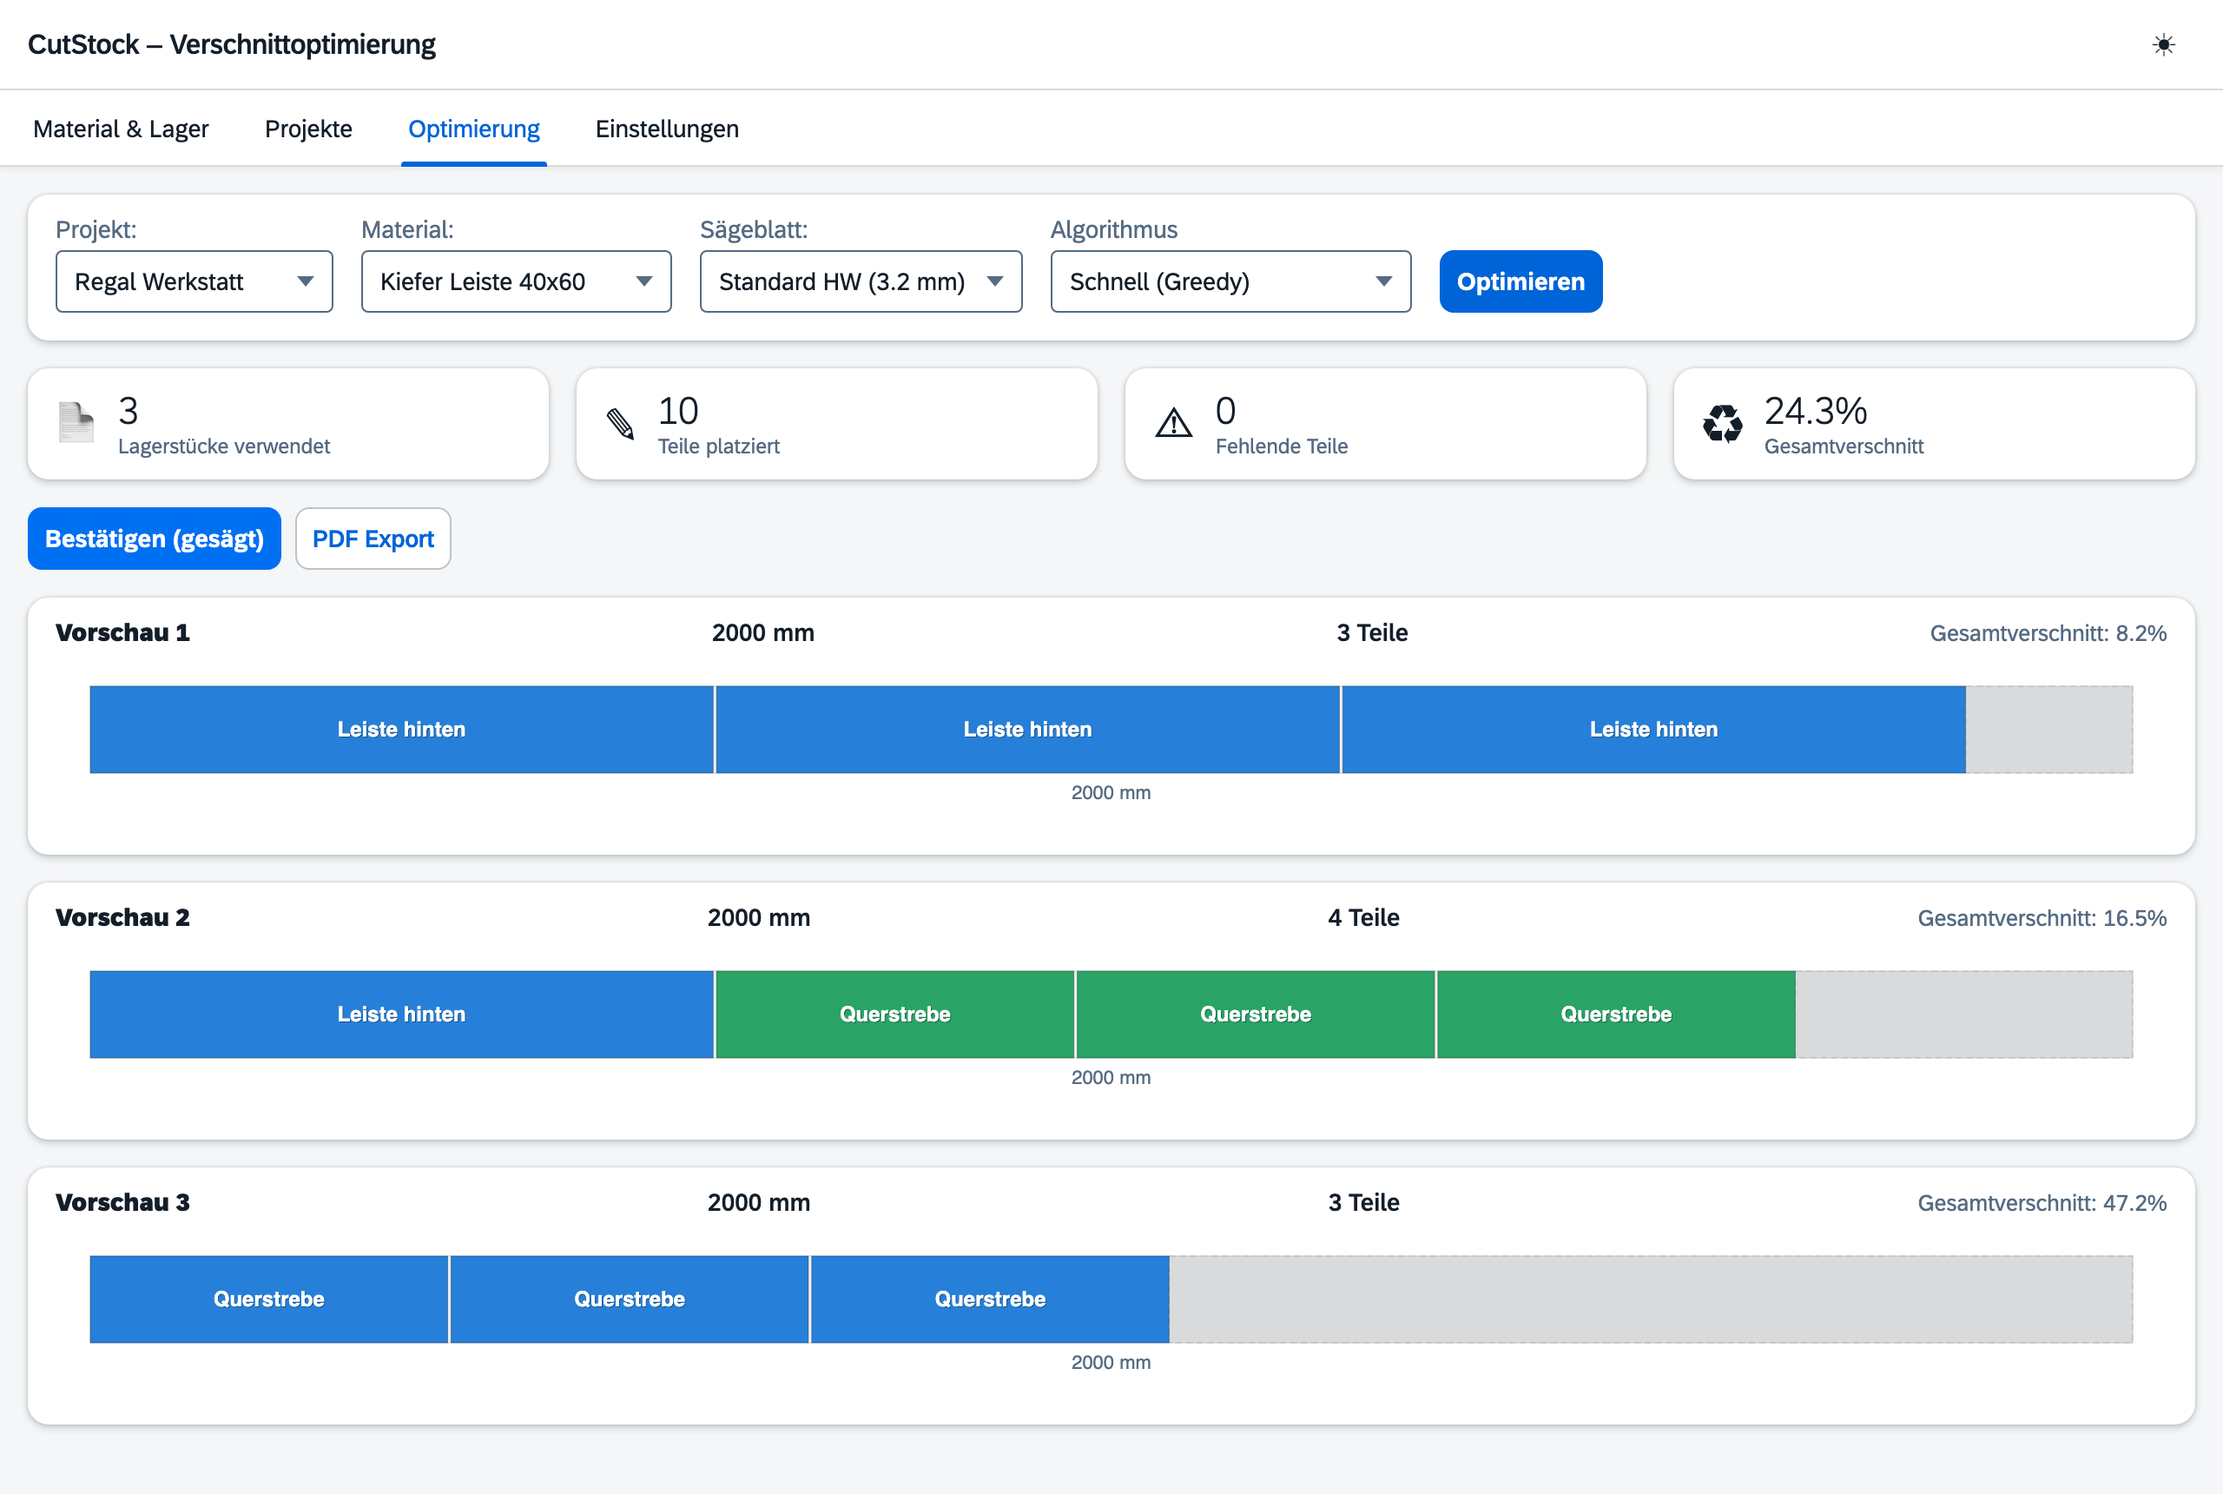
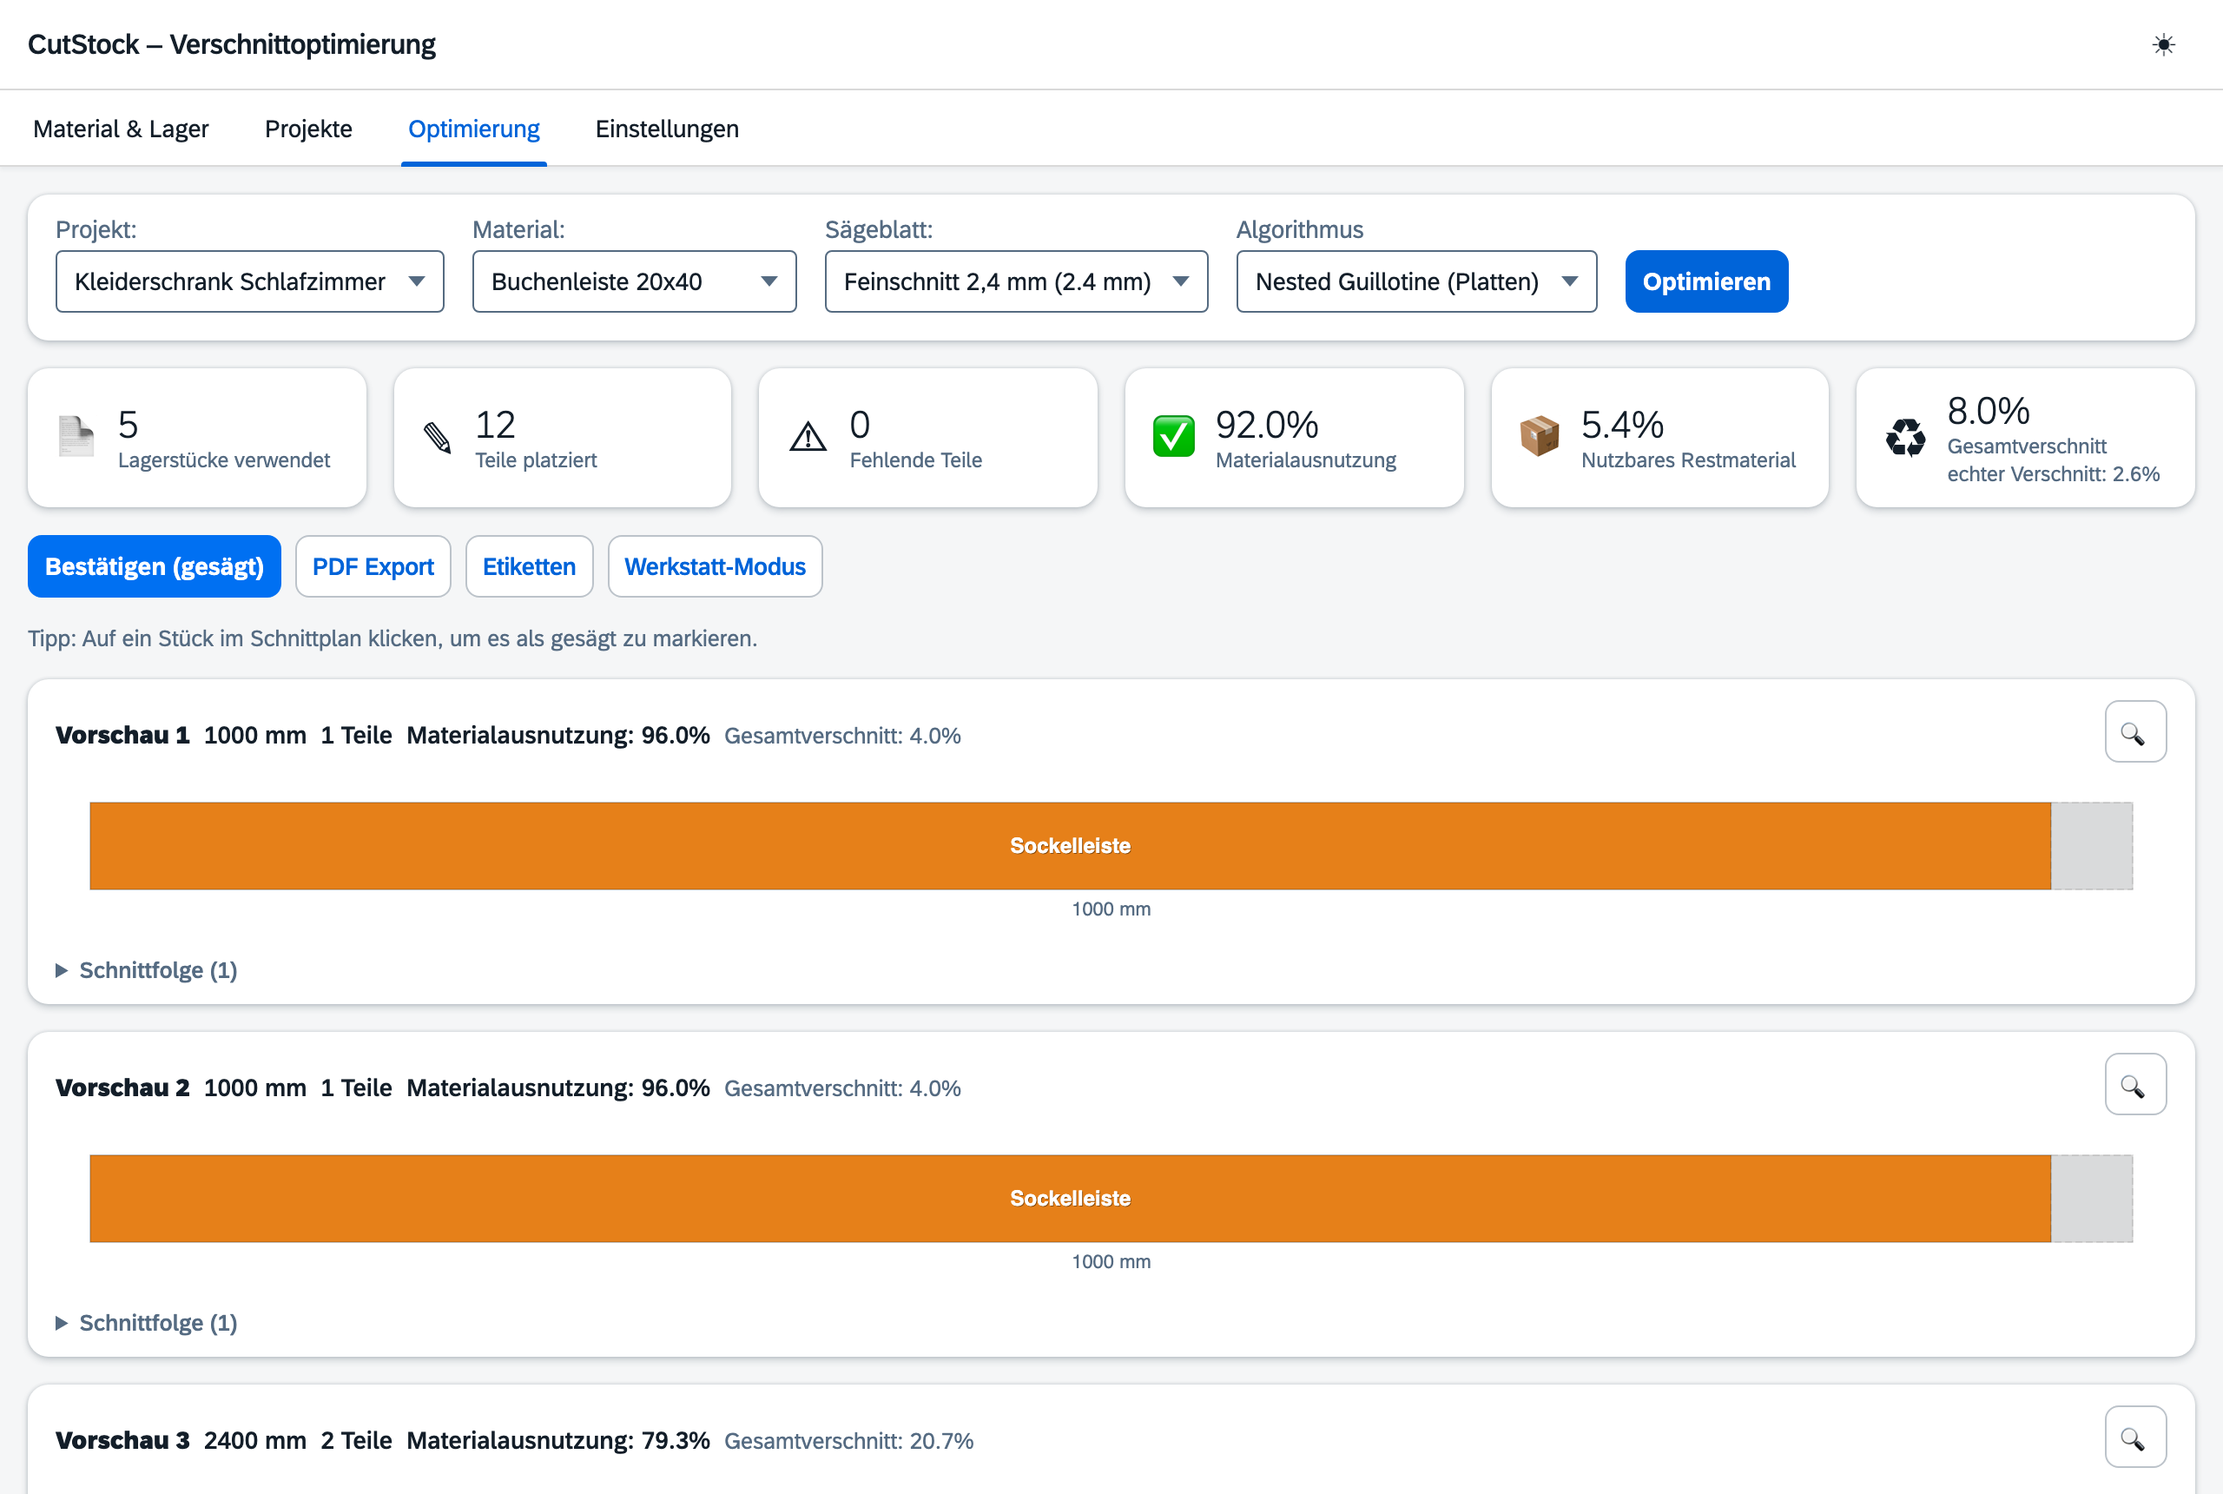
Version 2026.07.20: Doku – neue Screenshots + README-Update
Sechs frische Screenshots (helles Horizon, deutsches UI, Demo-Projekt
'Kleiderschrank Schlafzimmer' mit 13 Teiletypen + Stangen), neu dabei
screenshot_werkstatt.png. Erzeugt mit docs/make_screenshots.py (neu im
Repo: seedet Demo-Daten per REST und schießt die Bilder mit Playwright,
reproduzierbar). READMEs (en/de): Schnittfolge, Werkstatt-Modus,
Etiketten inkl. Druckerformate und CSV-Import ergänzt, Werkstatt-Modus-
Abschnitt mit Screenshot.

diff --git a/docs/make_screenshots.py b/docs/make_screenshots.py
@@ -1,0 +1,192 @@
+"""Generate the documentation screenshots against a local dev server.
+
+Creates a rich demo dataset via the REST API (materials, stock, blades,
+two projects) and then drives the web UI with Playwright to capture the
+screenshots used in README / website (light Horizon theme, German UI).
+
+Usage:
+    # 1) start a dev server with a THROWAWAY database:
+    CUTSTOCK_DB=/tmp/cutstock-shots.db python -m uvicorn web.app:app --port 8010
+    # 2) run this script (needs: pip install playwright && playwright install chromium):
+    python docs/make_screenshots.py http://localhost:8010
+
+Output: docs/screenshot_*.png (viewport 1280px @2x = 2560px wide).
+"""
+
+from __future__ import annotations
+
+import json
+import sys
+import urllib.request
+from pathlib import Path
+
+BASE = sys.argv[1] if len(sys.argv) > 1 else "http://localhost:8010"
+OUT = Path(__file__).resolve().parent
+
+
+# ---------------------------------------------------------------------------
+# REST helpers
+# ---------------------------------------------------------------------------
+
+def api(method: str, path: str, body: dict | None = None) -> dict | list | None:
+    req = urllib.request.Request(BASE + path, method=method)
+    data = None
+    if body is not None:
+        req.add_header("Content-Type", "application/json")
+        data = json.dumps(body).encode()
+    with urllib.request.urlopen(req, data) as resp:
+        raw = resp.read()
+        return json.loads(raw) if raw else None
+
+
+def seed_demo_data() -> dict:
+    """Create the demo dataset; returns ids needed for the UI flow."""
+    if api("GET", "/api/materials"):
+        raise SystemExit("Database is not empty – use a fresh throwaway DB!")
+
+    span = api("POST", "/api/materials", {
+        "name": "Spanplatte weiß 19mm", "typ": "Platte", "dicke": 19.0,
+        "maserung": "keine", "besaeumung": 10.0,
+        "rest_min_laenge": 300.0, "rest_min_breite": 200.0})
+    eiche = api("POST", "/api/materials", {
+        "name": "Eiche Leimholz 18mm", "typ": "Platte", "dicke": 18.0,
+        "maserung": "längs", "besaeumung": 5.0,
+        "rest_min_laenge": 200.0, "rest_min_breite": 150.0})
+    leiste = api("POST", "/api/materials", {
+        "name": "Buchenleiste 20x40", "typ": "Stange",
+        "querschnitt_breite": 20.0, "querschnitt_tiefe": 40.0,
+        "rest_min_laenge": 150.0})
+
+    for stock in [
+        {"material_id": span["id"], "laenge": 2800, "breite": 2070, "stueckzahl": 8},
+        # Remnant in stock (visible in the material tab) but deliberately too
+        # small for any part, so the cut plans show full-size panels
+        {"material_id": span["id"], "laenge": 350, "breite": 250, "stueckzahl": 1},
+        {"material_id": eiche["id"], "laenge": 2500, "breite": 1250, "stueckzahl": 3},
+        {"material_id": leiste["id"], "laenge": 2400, "breite": 0, "stueckzahl": 12},
+        {"material_id": leiste["id"], "laenge": 1000, "breite": 0, "stueckzahl": 2},
+    ]:
+        api("POST", "/api/stock", stock)
+
+    api("POST", "/api/blades", {"name": "Standard 3,0 mm", "schnittbreite": 3.0})
+    api("POST", "/api/blades", {"name": "Feinschnitt 2,4 mm", "schnittbreite": 2.4})
+
+    schrank = api("POST", "/api/projects", {"name": "Kleiderschrank Schlafzimmer"})
+    P, S = "Platte", "Stange"
+    for label, typ, mat, l, b, n, grain in [
+        ("Seitenwand",       P, span, 2000, 600, 2, "längs"),
+        ("Boden",            P, span, 1000, 600, 1, "egal"),
+        ("Deckel",           P, span, 1000, 600, 1, "egal"),
+        ("Mittelwand",       P, span, 1926, 580, 1, "längs"),
+        ("Tür",              P, span,  996, 1985, 2, "längs"),
+        ("Einlegeboden",     P, span,  481, 550, 6, "egal"),
+        ("Schubladenfront",  P, span,  480, 200, 3, "längs"),
+        ("Schubladenseite",  P, span,  500, 150, 6, "egal"),
+        ("Schubladenboden",  P, span,  450, 480, 3, "egal"),
+        ("Sockelblende",     P, span, 1000, 100, 1, "egal"),
+        ("Kleiderstange",    S, leiste, 950, 0, 2, "egal"),
+        ("Rahmenleiste",     S, leiste, 580, 0, 8, "egal"),
+        ("Sockelleiste",     S, leiste, 960, 0, 2, "egal"),
+    ]:
+        api("POST", f"/api/projects/{schrank['id']}/parts", {
+            "label": label, "typ": typ, "material_id": mat["id"],
+            "laenge": l, "breite": b, "stueckzahl": n,
+            "gesaegt_anzahl": 0, "maserung": grain})
+
+    bank = api("POST", "/api/projects", {"name": "Gartenbank Eiche"})
+    for label, l, b, n, grain in [
+        ("Sitzlatte", 1500, 90, 6, "längs"),
+        ("Lehnenlatte", 1500, 70, 3, "längs"),
+        ("Seitenteil", 850, 600, 2, "längs"),
+        ("Querstrebe", 1360, 80, 2, "egal"),
+    ]:
+        api("POST", f"/api/projects/{bank['id']}/parts", {
+            "label": label, "typ": P, "material_id": eiche["id"],
+            "laenge": l, "breite": b, "stueckzahl": n,
+            "gesaegt_anzahl": 0, "maserung": grain})
+
+    # Light theme + German UI + mm for consistent screenshots
+    api("PUT", "/api/settings", {"language": "de", "theme": "light", "unit": "mm"})
+
+    return {"span": span["id"], "leiste": leiste["id"], "schrank": schrank["id"]}
+
+
+# ---------------------------------------------------------------------------
+# Screenshots
+# ---------------------------------------------------------------------------
+
+def shoot(ids: dict):
+    from playwright.sync_api import sync_playwright
+
+    with sync_playwright() as pw:
+        browser = pw.chromium.launch()
+        page = browser.new_page(viewport={"width": 1280, "height": 860},
+                                device_scale_factor=2)
+        page.goto(BASE)
+        page.wait_for_selector("#material-table tbody tr")
+
+        # 1) Material & Lager (Spanplatte ausgewählt → Lagerbestand rechts)
+        page.click('#material-table tbody tr:has-text("Spanplatte")')
+        page.wait_for_timeout(400)
+        page.screenshot(path=str(OUT / "screenshot_material.png"))
+
+        # 2) Projekte (Kleiderschrank ausgewählt → Teileliste)
+        page.click('.tab-btn[data-tab="projects"]')
+        page.wait_for_selector("#project-list tbody tr")
+        page.click('#project-list tbody tr:has-text("Kleiderschrank")')
+        page.wait_for_selector('#parts-table tbody tr:has-text("Seitenwand")')
+        page.wait_for_timeout(300)
+        page.screenshot(path=str(OUT / "screenshot_projekte.png"))
+
+        # 3) Optimierung 2D (Platten) inkl. aufgeklappter Schnittfolge.
+        # Größerer Viewport + Scroll auf die Statistik, damit Kacheln,
+        # erster Plan und Schnittfolge gemeinsam ins Bild passen.
+        page.click('.tab-btn[data-tab="optimization"]')
+        page.select_option("#opt-project", str(ids["schrank"]))
+        page.select_option("#opt-material", str(ids["span"]))
+        page.select_option("#opt-algorithm", "nested")
+        page.click("#btn-optimize")
+        page.wait_for_selector(".cut-plan-canvas", timeout=30000)
+        # Erst Viewport setzen und den Resize-Rerender (250 ms Debounce)
+        # abwarten – der baut die Karten neu und würde ein zuvor geöffnetes
+        # <details> wieder schließen. Dann Schnittfolge öffnen.
+        page.set_viewport_size({"width": 1280, "height": 1060})
+        page.wait_for_timeout(800)
+        page.eval_on_selector(".cut-seq", "d => d.open = true")
+        page.evaluate("document.getElementById('opt-stats').scrollIntoView(); window.scrollBy(0, -12)")
+        page.wait_for_timeout(200)
+        page.screenshot(path=str(OUT / "screenshot_platten.png"))
+        page.set_viewport_size({"width": 1280, "height": 860})
+        page.wait_for_timeout(600)
+
+        # 4) Werkstatt-Modus: zwei Teile abhaken, damit Fortschritt,
+        # Häkchen und "Als Nächstes"-Markierung sichtbar sind
+        page.click("#btn-saw-mode")
+        page.wait_for_selector(".saw-piece")
+        page.click(".saw-piece >> nth=0")
+        page.wait_for_timeout(500)
+        page.click(".saw-piece >> nth=1")
+        page.wait_for_timeout(500)
+        page.screenshot(path=str(OUT / "screenshot_werkstatt.png"))
+        page.click("#saw-close")
+
+        # 5) Optimierung 1D (Stangen)
+        page.select_option("#opt-material", str(ids["leiste"]))
+        page.click("#btn-optimize")
+        page.wait_for_selector(".cut-plan-canvas", timeout=30000)
+        page.wait_for_timeout(600)
+        page.screenshot(path=str(OUT / "screenshot_optimierung.png"))
+
+        # 6) Einstellungen (ganze Seite inkl. Etiketten + Tastenkürzel)
+        page.click('.tab-btn[data-tab="settings"]')
+        page.wait_for_selector("#settings-label-format")
+        page.wait_for_timeout(400)
+        page.screenshot(path=str(OUT / "screenshot_einstellungen.png"), full_page=True)
+
+        browser.close()
+
+
+if __name__ == "__main__":
+    ids = seed_demo_data()
+    shoot(ids)
+    print("Screenshots geschrieben nach", OUT)

diff --git a/README.de.md b/README.de.md
@@ -20,8 +20,11 @@ CutStock gibt es in zwei Varianten, die denselben Optimierungskern teilen:
 - **Maserungsrichtung** -- beruecksichtigt Holzmaserung pro Material und Teil (laengs, quer oder egal)
 - **Besaeumung** -- konfigurierbarer Rand fuer beschaedigte Plattenkanten
 - **Lagerverwaltung** -- Bestand verfolgen, verbrauchte Stuecke automatisch austragen, verwertbare Reste automatisch einbuchen
-- **Projektverwaltung** -- Teile nach Projekten organisieren, Import/Export als JSON
+- **Projektverwaltung** -- Teile nach Projekten organisieren, Import/Export als JSON, Teilelisten-Import aus CSV
 - **Visuelle Schnittplaene** -- farbkodierte Zuschnittschemata mit Labels und Massen
+- **Schnittfolge** -- nummerierte, massgenaue Schrittliste pro Schnittplan (Kerf eingerechnet, auch im PDF)
+- **Werkstatt-Modus** -- Vollbild-Touch-Ansicht fuers Tablet an der Saege: grosse Ziele, Fortschritt, Teile beim Saegen abhaken
+- **Etiketten** -- druckbare Etiketten fuer Teile und Reste (A4-Boegen wie Avery 3475/L7160 oder Dymo/Brother-Etikettendrucker, freie Masse)
 - **PDF-Export** -- kompaktes mehrseitiges Layout (2-spaltig fuer Stangen, proportional fuer Platten)
 - **Statistik** -- detaillierte Verschnittanalyse pro Lagerstueck und Gesamtwerte
 - **Backup/Restore** -- komplette Datenbank + Einstellungen als ZIP (Desktop)
@@ -114,13 +117,19 @@ Projekt, Material, Saegeblatt und Algorithmus waehlen. Der Optimierer berechnet 
 
 ### Optimierung -- Platten
 
-2D Guillotine-Packing fuer Plattenwerkstoffe. Alle Schnitte gehen von Kante zu Kante, so dass alle Reste Rechtecke bleiben und wiederverwendbar sind.
+2D Guillotine-Packing fuer Plattenwerkstoffe. Alle Schnitte gehen von Kante zu Kante, so dass alle Reste Rechtecke bleiben und wiederverwendbar sind. Die nummerierte Schnittfolge unter jedem Plan sagt exakt, wo gesaegt wird -- die Saegeblattbreite ist bereits eingerechnet.
 
 ![Optimierung Platten](docs/screenshot_platten.png)
 
+### Werkstatt-Modus
+
+Vollbild-Ansicht fuers Tablet neben der Saege: eine Platte pro Seite, grosse Touch-Ziele, Gesamtfortschritt und "Als Naechstes"-Markierung. Abhaken aktualisiert Teile-Fortschritt und Lager live.
+
+![Werkstatt-Modus](docs/screenshot_werkstatt.png)
+
 ### Einstellungen
 
-Sprache, Farbschema (Horizon hell/dunkel), Masseinheit (mm/cm), Saegeblaetter, Tastenkuerzel und Backup/Restore konfigurieren.
+Sprache, Farbschema (Horizon hell/dunkel), Masseinheit (mm/cm), Etiketten-Papierformat (A4-Boegen oder Etikettendrucker), Saegeblaetter, Tastenkuerzel und Backup/Restore konfigurieren.
 
 ![Einstellungen](docs/screenshot_einstellungen.png)
 

diff --git a/README.md b/README.md
@@ -20,8 +20,11 @@ CutStock comes in two flavors that share the same optimization core:
 - **Grain Direction** -- respects wood grain per material and part (lengthwise, crosswise, or any)
 - **Edge Trimming** -- configurable trim margin for damaged board edges
 - **Stock Management** -- track inventory, auto-deduct used pieces, auto-add usable remnants
-- **Project Management** -- organize parts by project, import/export as JSON
+- **Project Management** -- organize parts by project, import/export as JSON, import part lists from CSV
 - **Visual Cut Plans** -- color-coded cutting diagrams with labels and dimensions
+- **Cutting Sequence** -- numbered, kerf-accurate step-by-step sawing order per cut plan (on screen and in the PDF)
+- **Workshop Mode** -- full-screen touch view for a tablet at the saw: big targets, progress bar, tap pieces as you cut
+- **Labels** -- printable labels for sawn parts and remnants (A4 sheets like Avery 3475/L7160 or Dymo/Brother label printers, custom sizes)
 - **PDF Export** -- compact multi-page layout (2-column for bars, proportional for panels)
 - **Statistics** -- detailed waste analysis per stock piece and totals
 - **Backup/Restore** -- full database + settings as ZIP (desktop)
@@ -113,13 +116,19 @@ Select a project, material, saw blade, and algorithm. The optimizer calculates t
 
 ### Optimization -- Panels
 
-2D guillotine packing for panels. All cuts go edge-to-edge, keeping every remnant rectangular and reusable.
+2D guillotine packing for panels. All cuts go edge-to-edge, keeping every remnant rectangular and reusable. The numbered cutting sequence below each plan tells you exactly where to cut, with the saw kerf already accounted for.
 
 ![Optimization Panels](docs/screenshot_platten.png)
 
+### Workshop Mode
+
+Full-screen view for a tablet next to the saw: one panel per page, large touch targets, overall progress, and an "up next" marker. Marking a piece updates part progress and stock live.
+
+![Workshop Mode](docs/screenshot_werkstatt.png)
+
 ### Settings
 
-Configure language, color theme (Horizon light/dark), unit (mm/cm), saw blades, keyboard shortcuts, and backup/restore.
+Configure language, color theme (Horizon light/dark), unit (mm/cm), label paper format (A4 sheets or label printers), saw blades, keyboard shortcuts, and backup/restore.
 
 ![Settings](docs/screenshot_einstellungen.png)
 
